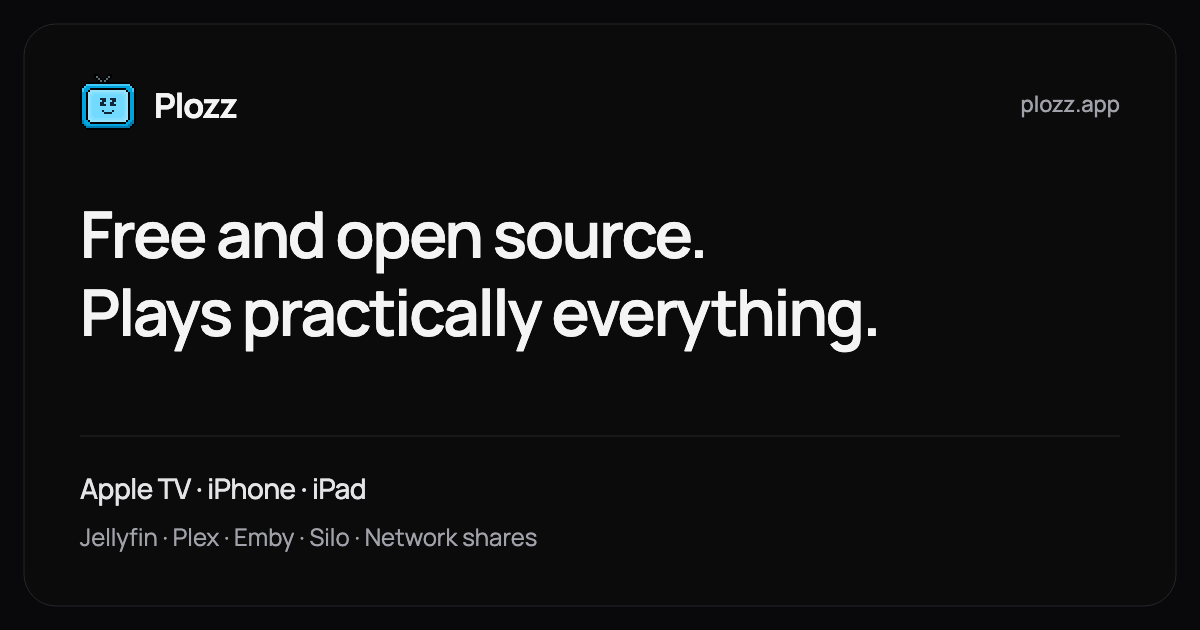
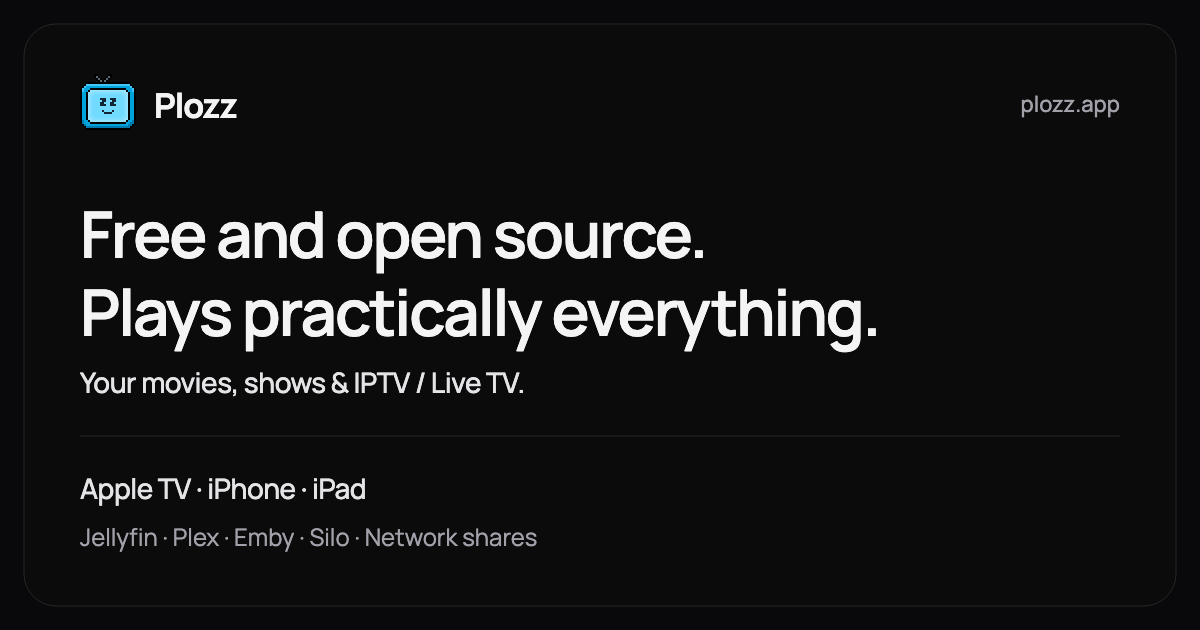
Make IPTV and Live TV visible across the Plozz website
Add dedicated IPTV navigation, hero/source placement, a Live TV page and updated social artwork. Cover M3U, Xtream, XMLTV, guide search, four-channel Multiview and library channels with current source and capability boundaries.

Copilot-Session: 97b9b0e1-059a-4249-ae75-efe80e05e144

Changed region(s): [[0.0617, 0.573, 0.4317, 0.6333]]

diff --git a/src/data/faqs.ts b/src/data/faqs.ts
@@ -25,6 +25,10 @@ export const faqs: Faq[] = [
     a: 'Yes. Plozz uses AetherEngine to render height audio from supported Dolby TrueHD Atmos and DTS:X tracks on tvOS 26 or later with compatible Atmos equipment. It uses Apple Positional Audio and Dolby MAT, not untouched bitstream passthrough. <a href="/formats#height-channels">See requirements and the audio-quality tradeoff.</a>',
   },
   {
+    q: 'Does Plozz support IPTV and Live TV?',
+    a: 'Yes, on Apple TV, iPhone and iPad. Connect your own M3U playlist or Xtream account, add an XMLTV guide, or use authorized Plex, Jellyfin and Emby channels. The guide includes search, favorites, recents and up to four-channel Multiview. <a href="/live-tv">Explore IPTV / Live TV.</a> Plozz does not supply channels or a channel subscription.',
+  },
+  {
     q: 'Do I need a media server?',
     a: 'Use a Jellyfin, Plex, Emby or Silo server you have access to, or connect directly to SMB, NFS, WebDAV, SFTP or FTP storage. You can also bring your own IPTV playlist without a media-server account. Plozz doesn\u2019t provide films, shows or public channels.',
   },

diff --git a/src/data/brand.ts b/src/data/brand.ts
@@ -11,4 +11,4 @@ function versionedAsset(name: string): string {
 export const LOGO_PATH = versionedAsset('logo.svg');
 export const SOCIAL_IMAGE_PATH = versionedAsset('og-image.png');
 export const SOCIAL_IMAGE_ALT =
-  'Plozz. Free and open source. Plays practically everything. Apple TV, iPhone and iPad. Jellyfin, Plex, Emby, Silo and network shares.';
+  'Plozz. Free and open source. Plays practically everything. Your movies, shows and IPTV / Live TV. Apple TV, iPhone and iPad. Jellyfin, Plex, Emby, Silo and network shares.';

diff --git a/src/styles/global.css b/src/styles/global.css
@@ -944,12 +944,6 @@ h3 {
   height: 32px;
 }
 
-@media (min-width: 561px) {
-  .cell.share-source {
-    grid-column: span 2;
-  }
-}
-
 /* Network shares are a category, not a product, so there is no logo to show.
    Icon plus the name, set to the same weight and size as the three brand marks
    it sits beside. Shared by the hero panel and the sources cell so the two read

diff --git a/src/data/site.ts b/src/data/site.ts
@@ -7,6 +7,7 @@ export const GITHUB_STARS_SEED = 26;
 
 export const NAV_LINKS = [
   { href: '/features', label: 'Features' },
+  { href: '/live-tv', label: 'IPTV / Live TV' },
   { href: '/formats', label: 'Formats' },
   { href: '/network-shares', label: 'Network shares' },
 ];

diff --git a/PRODUCT.md b/PRODUCT.md
@@ -6,7 +6,7 @@ brand
 
 ## Users
 
-People with personal media libraries who are evaluating Plozz as a native player for Apple TV, iPhone, and iPad. They may use Jellyfin, Plex, Emby, Silo, or connect directly to network storage.
+People evaluating Plozz as a native media and IPTV player for Apple TV, iPhone, and iPad. They may use Jellyfin, Plex, Emby, Silo, direct network storage, or their own IPTV accounts and playlists.
 
 ## Product Purpose
 
@@ -148,9 +148,19 @@ watchlists, Seerr season requests, collections/extras, Live TV where supported,
 profile-scoped presentation, dual subtitles, themes/layout and circadian mode.
 Plozz profiles do not replace server users or their restrictions/history.
 Music libraries use Plex/Jellyfin/Emby, not Silo or shares. Live TV supports
-user-supplied M3U/XMLTV, authorized Plex/Jellyfin/Emby channels and scheduled
-library channels; it supplies no public channels and is marked Experimental
-on Apple TV.
+user-supplied M3U playlists, Xtream accounts, XMLTV guides, authorized
+Plex/Jellyfin/Emby channels and scheduled library channels. It supplies no public
+channels or channel subscription. Source setup carries an Experimental note on
+both TV and mobile; navigation is simply Live TV.
+
+IPTV / Live TV is a first-class supported source: include it in navigation,
+the hero's source list and social artwork, not in extra hero paragraphs.
+`/live-tv` owns the details. Current capabilities were checked against
+[`docs/live-tv-prototype.md` at e95ccd6](https://github.com/brandomoore/Plozz/blob/e95ccd6c907cfbac64b3c3ee8aca902a266c7428/docs/live-tv-prototype.md)
+on October 17, 2026: up to four-channel Multiview, guide/search, favorites,
+recents, Home channel shortcuts and generated library channels. Catch-up and
+recording management are not supported. Imported M3U files and saved Multiview
+compositions stay device-local. Provider limits and permissions still apply.
 
 Height-audio copy updated October 15, 2026 following the maintainer's confirmation
 that Plozz supports the engine's height path. Mechanism and qualifications were

diff --git a/README.md b/README.md
@@ -2,7 +2,7 @@
 
 The marketing website for **[Plozz](https://github.com/brandomoore/Plozz)** — a
 free, open-source media player for Apple TV, iPhone, and iPad that plays from
-your own Jellyfin, Plex, Emby and Silo servers and from plain network shares.
+your own Jellyfin, Plex, Emby and Silo servers, network shares and IPTV / Live TV sources.
 
 Live at **[plozz.app](https://plozz.app)**.
 
@@ -82,7 +82,7 @@ Do not reactivate the Pages domain or change DNS to resolve a stale Worker.
 ```
 src/pages/          One .astro file per route (index, features, formats,
                     jellyfin, plex, emby, silo, network-shares,
-                    infuse-alternative, apple-tv-media-players, privacy, 404)
+                    infuse-alternative, apple-tv-media-players, live-tv, privacy, 404)
 src/components/      Reusable page sections
 src/data/           Site copy, FAQs, and the screenshot manifest
 src/styles/          Global and device-frame CSS
@@ -112,6 +112,11 @@ compares Infuse, VLC, Plex, Emby and Swiftfin by workflow rather than price or
 unsupported feature checklists. Each entry links its official source and gives
 a use case, a reason to try Plozz, and a caveat. Infuse remains the lead
 comparison. Features and the shared footer link to this broader page.
+
+[`src/pages/live-tv.astro`](src/pages/live-tv.astro) covers IPTV / Live TV,
+including M3U/Xtream sources, XMLTV, Multiview and scheduled library channels.
+Keep it discoverable in the primary navigation and homepage, and include
+IPTV / Live TV in social artwork. Plozz supplies the player, not the channels.
 
 Run `npm run test:site` to build and check search/social metadata, canonical
 URLs, sitemap discovery, visible FAQ/JSON-LD consistency and comparison wording.
